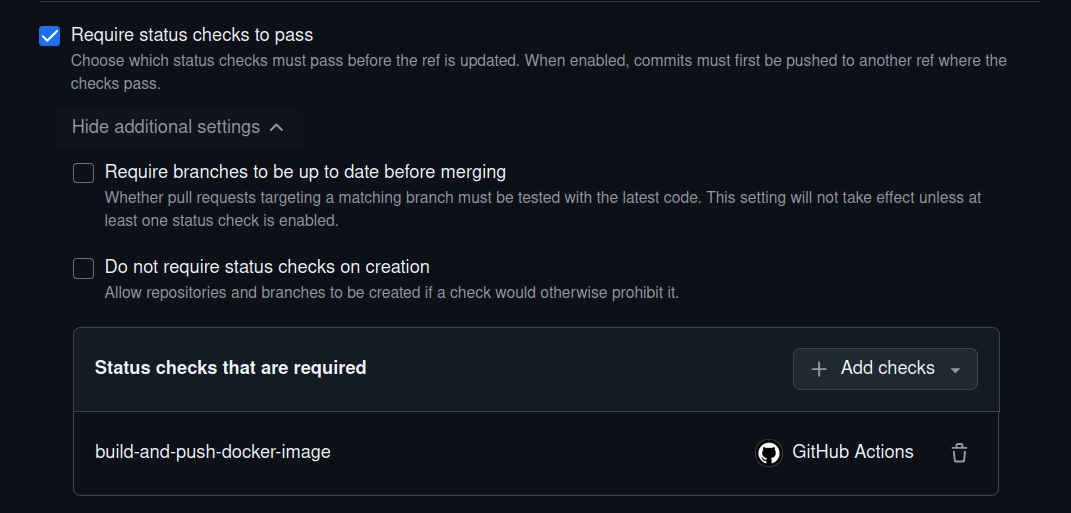
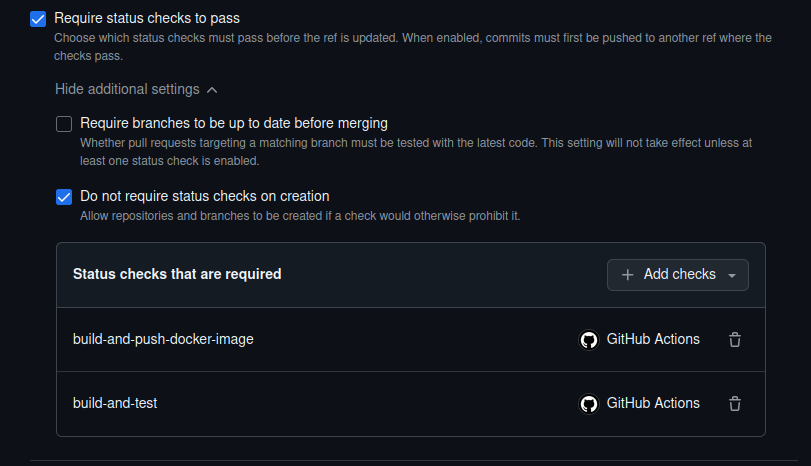
chore: Updated README with findings regarding status checks

diff --git a/README.md b/README.md
@@ -200,7 +200,9 @@ And by the ruleset applying to the `master` branch:
 
 ![CI branch ruleset](resources/ci-branch-ruleset.png)
 
-Note that in order to allow pushing to the master branch without opening a PR, the current configuration adds the repository admins to the bypass list: this means that the branch protection will not be enforced for them. It is convenient for development but can be change in case multiple people are collaborating on the project.
+Note that in order to allow pushing to the master branch without opening a PR, the current configuration adds the repository admins to the bypass list: this means that the branch protection will not be enforced for them. It is convenient for development but can be changed in case multiple people are collaborating on the project.
+
+Also note that in case you add/change steps to the CI, you might need to register those as required status checks in the settings. You can find more information either in [#172](https://github.com/Knoblauchpilze/galactic-sovereign-frontend/pull/172) or [here](https://emmer.dev/blog/skippable-github-status-checks-aren-t-really-required/).
 
 In order to make this work, you will need to provide a github token and save it as a dependabot secret under `DEPENDABOT_AUTO_APPROVE_TOKEN`:
 
